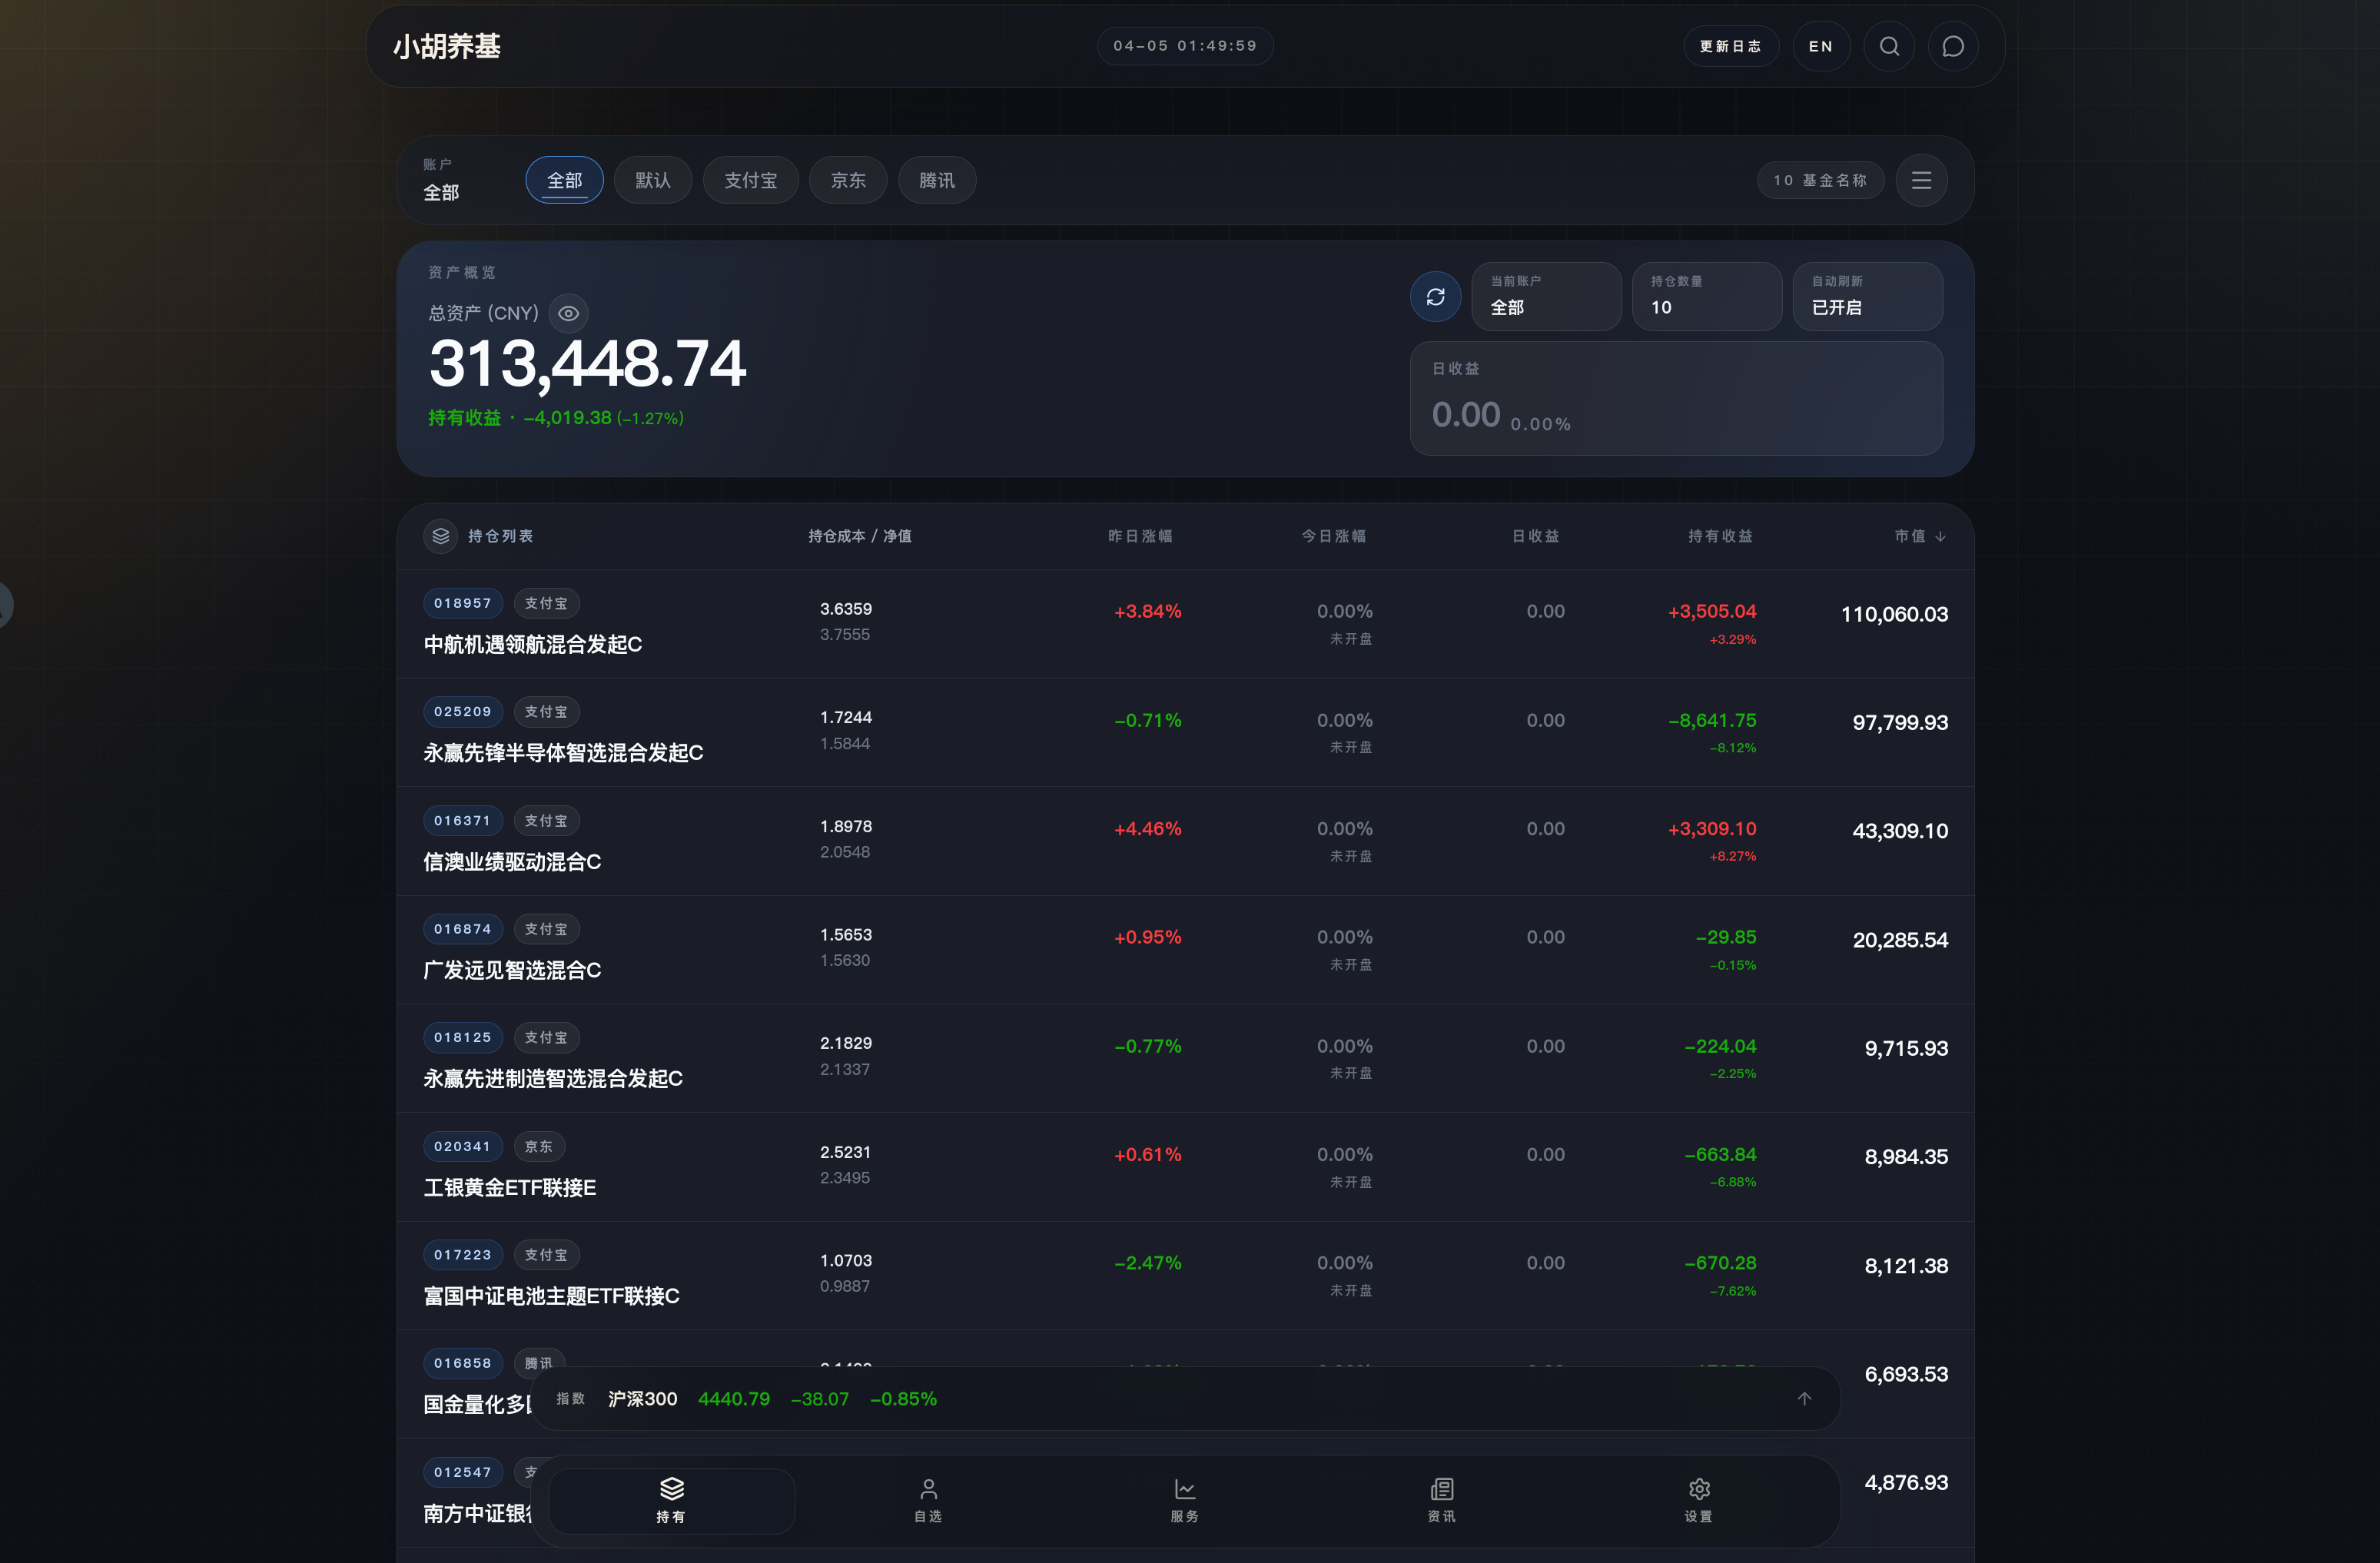
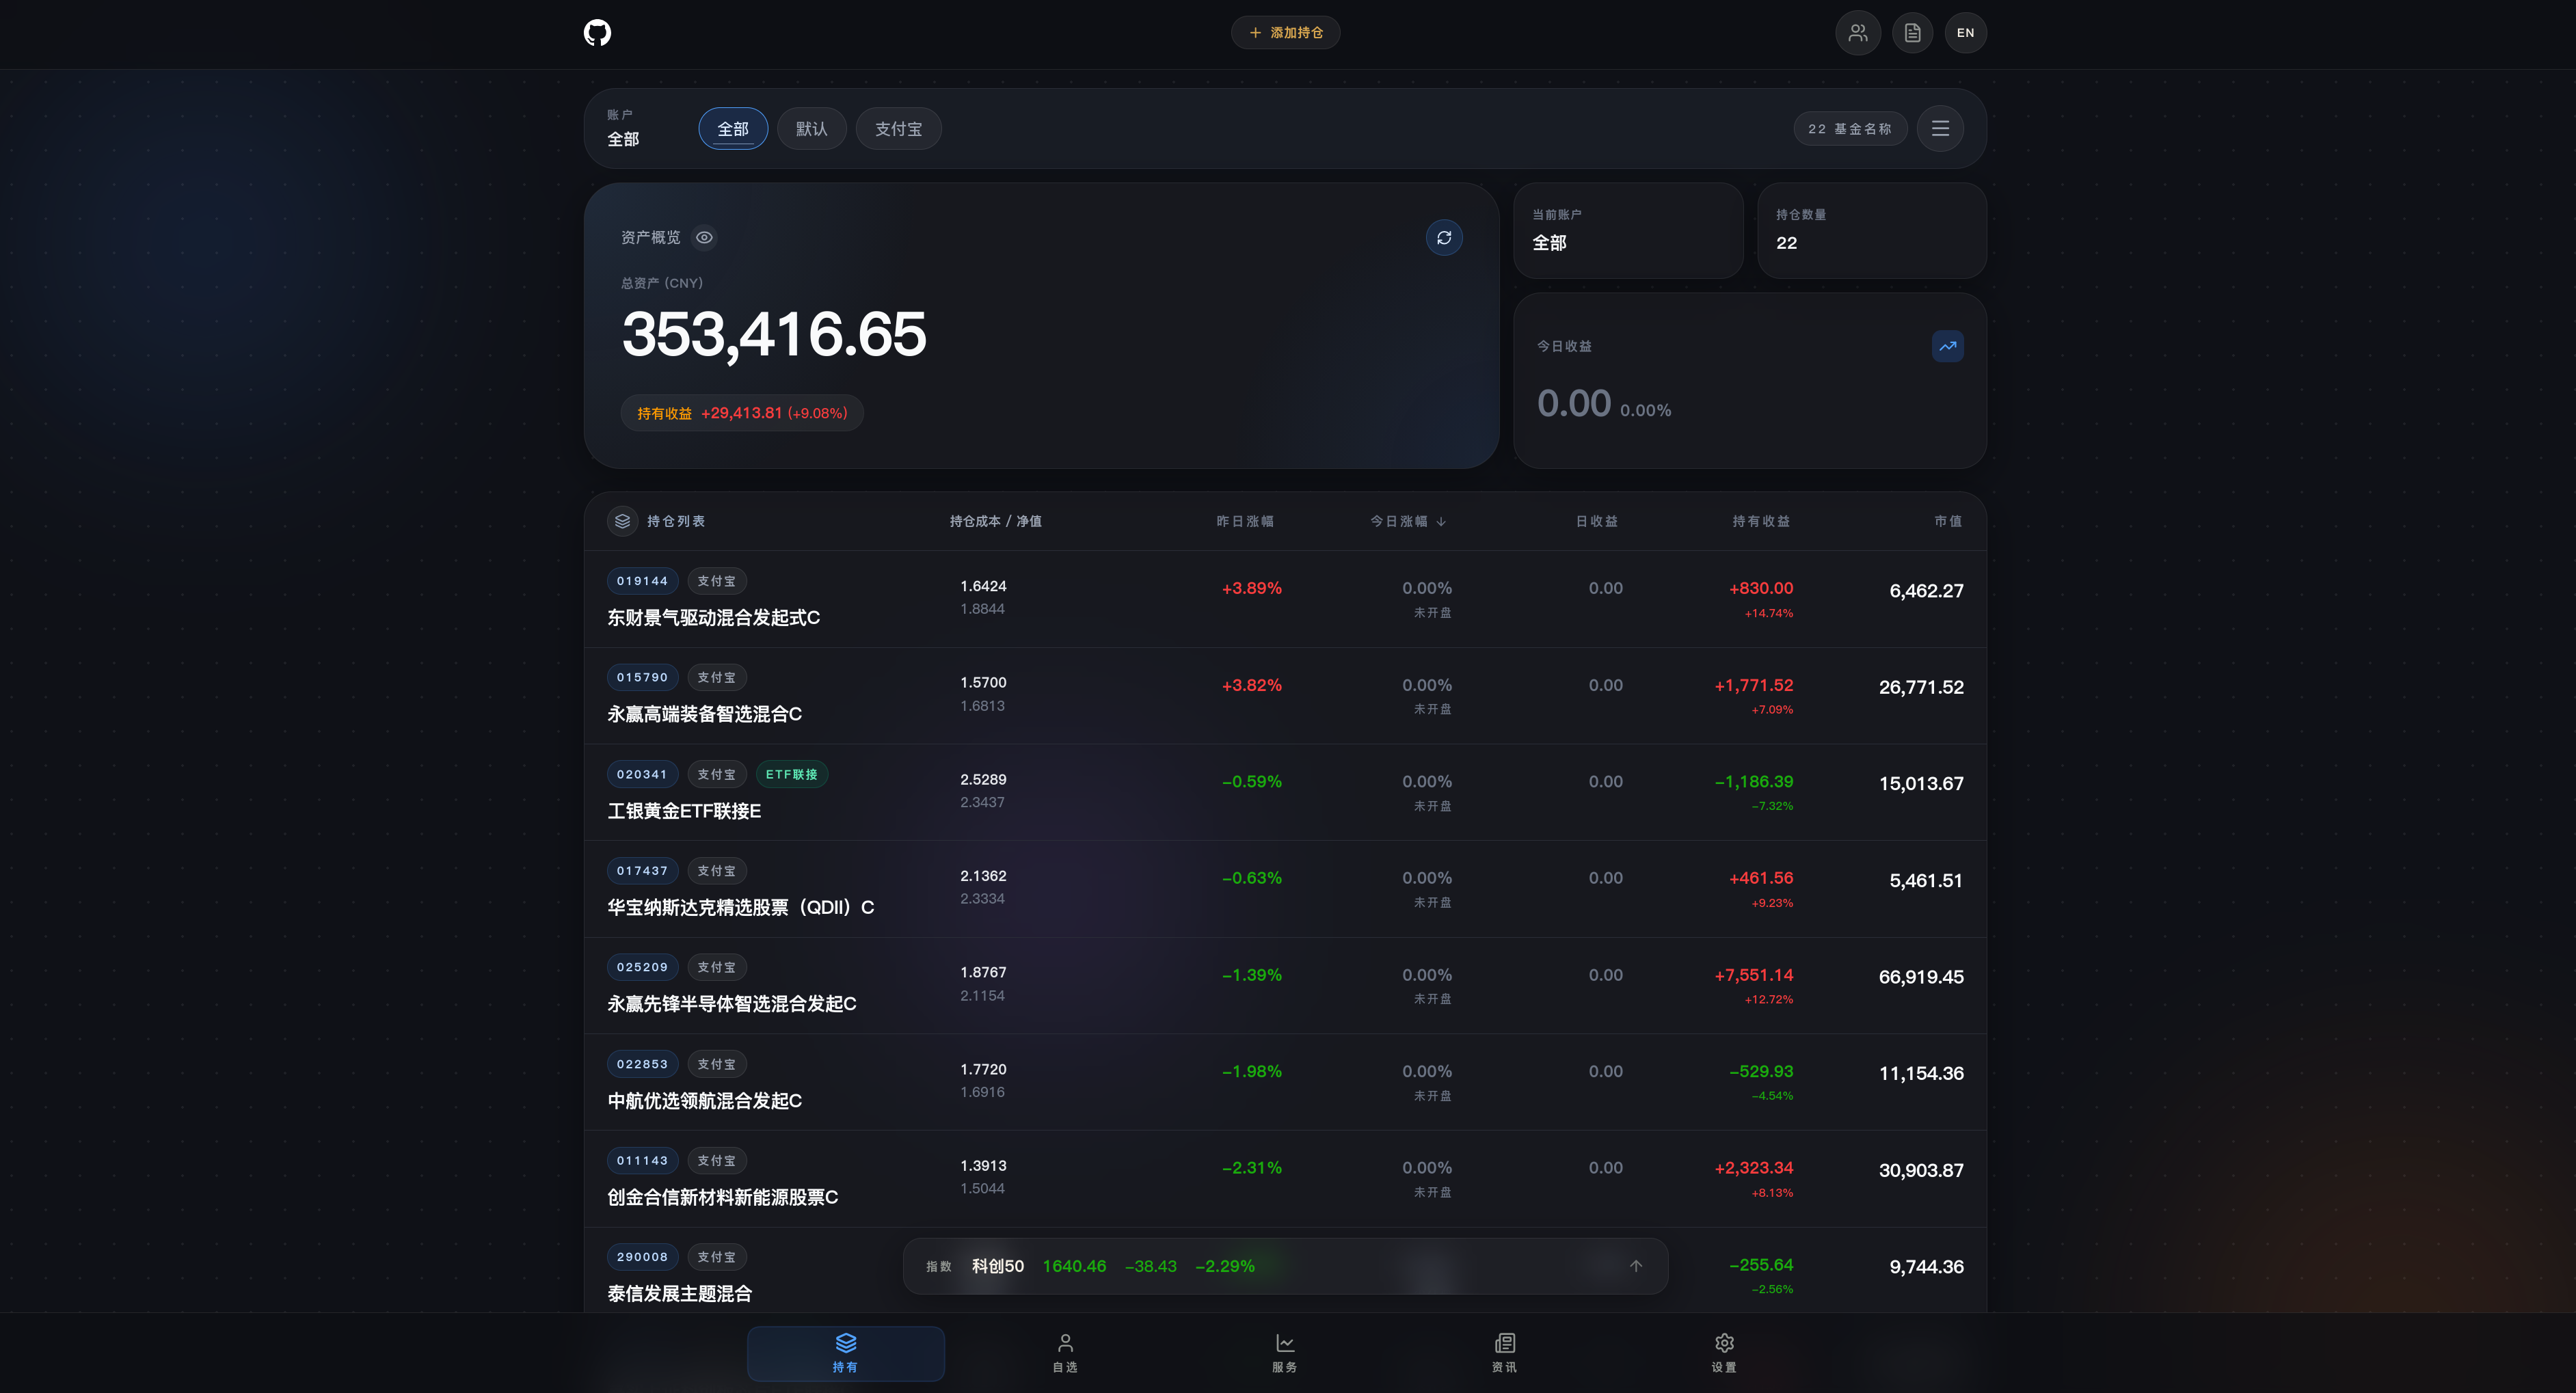
docs: add PWA/safe-area rules to AGENTS.md and redesign README screenshots
- AGENTS.md: document PWA safe-area adaptation patterns, Dynamic Island core approach, and ErrorBoundary architecture
- README.md: restructure screenshots into desktop/mobile collapsible sections with fund detail, holdings, AI analysis, and index ticker views

diff --git a/README.md b/README.md
@@ -2,10 +2,31 @@
 
 本地优先、隐私至上的基金管理应用，帮助用户聚合管理基金持仓、查看收益分析。
 
-<p align="center">
-  <img src="assets/screenshot-dark-mode.png" alt="暗色模式截图" width="49%" />
-  <img src="assets/screenshot-light-mode.png" alt="亮色模式截图" width="49%" />
-</p>
+<details>
+<summary>桌面端界面展示</summary>
+<img src="assets/screenshot-dark-mode.png" alt="暗色模式截图" />
+<img src="assets/screenshot-dark-fund-detail.png" alt="暗色模式基金详情截图" />
+<img src="assets/screenshot-dark-fund-share-holdings.png" alt="暗色模式基金详情截图" />
+<img src="assets/screenshot-dark-ai-analysis.png" alt="暗色模式基金详情截图" />
+
+<img src="assets/screenshot-light-mode.png" alt="浅色模式截图" />
+<img src="assets/screenshot-light-fund-detail.png" alt="浅色模式基金详情截图" />
+<img src="assets/screenshot-light-fund-share-holdings.png" alt="浅色模式基金详情截图" />
+<img src="assets/screenshot-light-ai-analysis.png" alt="浅色模式基金详情截图" />
+</details>
+
+<details>
+<summary>移动端界面展示</summary>
+<img src="assets/mobile-screenshot-dark-mode.png" alt="移动端暗色模式截图" width="60%" />
+<img src="assets/mobile-screenshot-dark-mode-fund-detail.png" alt="移动端暗色模式基金详情截图" width="60%" />
+<img src="assets/mobile-screenshot-dark-mode-fund-share-holdings.png" alt="移动端暗色模式基金持仓截图" width="60%" />
+<img src="assets/mobile-screenshot-dark-mode-index-ticker.png" alt="移动端暗色模式指数行情截图" width="60%" />
+
+<img src="assets/mobile-screenshot-light-mode.png" alt="移动端浅色模式截图" width="60%" />
+<img src="assets/mobile-screenshot-light-mode-fund-detail.png" alt="移动端浅色模式基金详情截图" width="60%" />
+<img src="assets/mobile-screenshot-light-mode-fund-share-holdings.png" alt="移动端浅色模式基金持仓截图" width="60%" />
+<img src="assets/mobile-screenshot-light-mode-index-ticker.png" alt="移动端浅色模式指数行情截图" width="60%" />
+</details>
 
 ## 功能特性
 

diff --git a/AGENTS.md b/AGENTS.md
@@ -207,6 +207,24 @@ if (fundType === 'QDII' || fundType === 'HK' || fundType === 'ETF') {
 }
 ```
 
+## PWA 与安全区域适配
+
+- 部署站点 `https://gp.hrfuqiang.top/fund-manager/`，`index.html` 中配置了 `viewport-fit=cover`、`apple-mobile-web-app-capable`、`apple-mobile-web-app-status-bar-style`（`black-translucent`）和 `theme-color`（对应浅色/深色）。
+- `public/manifest.json` 配置 PWA 为 `standalone` 模式，`start_url` 为 `/fund-manager/`。
+- **灵动岛适配核心模式**：用 CSS `max()` 结合 `env(safe-area-inset-*)` 确保普通设备有最小间距、灵动岛设备追加系统安全区。
+  - 顶部间距：`paddingTop: max(3.5rem, env(safe-area-inset-top, 0px))`（移动端至少 Header 高度）
+  - 底部间距：`pb-[env(safe-area-inset-bottom,16px)]`（回退 16px）
+  - Tailwind 任意值语法支持 `env()` 但不支持嵌套 `max()`，复杂表达式需用内联 `style` 属性
+- Header 当前使用 `sticky top-0` + 负 `marginTop` 方案适配灵动岛；不要改回 `fixed` 或重新添加 `isolation:isolate`。
+- `.glass-nav` 是 Header 和 BottomNav 的共享类，**不要在 `.glass-nav` 中添加 `padding-top: env(safe-area-inset-top)`**——那会对底栏产生副作用（向上扩展遮挡 Ticker）。
+
+## ErrorBoundary
+
+- `components/ErrorBoundary.tsx`：React class component，捕获子组件渲染错误，显示错误回退 UI（含重试按钮，匹配亮色/暗色主题）。
+- `index.tsx` 中用 `<ErrorBoundary>` 包裹 `<App />`，root 缺失时在 body 内渲染错误提示而非 `throw`。
+- 任何未捕获异常都会触发 ErrorBoundary，防止 React 18 卸载整个组件树导致白屏。
+- 新增组件或复杂逻辑时应考虑边界情况，但不需要额外包裹 ErrorBoundary（顶层已处理）。
+
 ## Modal Shell
 
 - 所有 Modal 必须使用 `ModalShell` 统一封装开关动画、backdrop、overlay 注册。